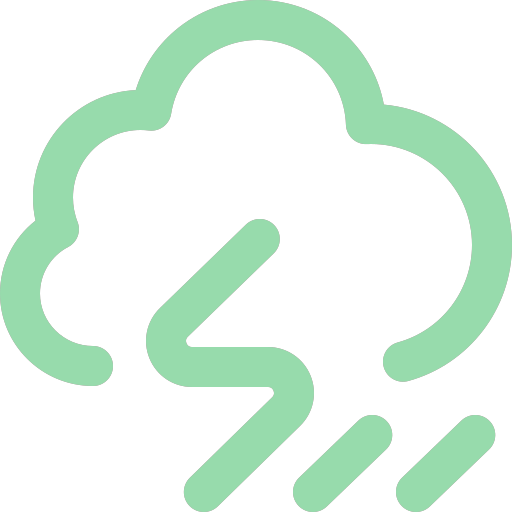
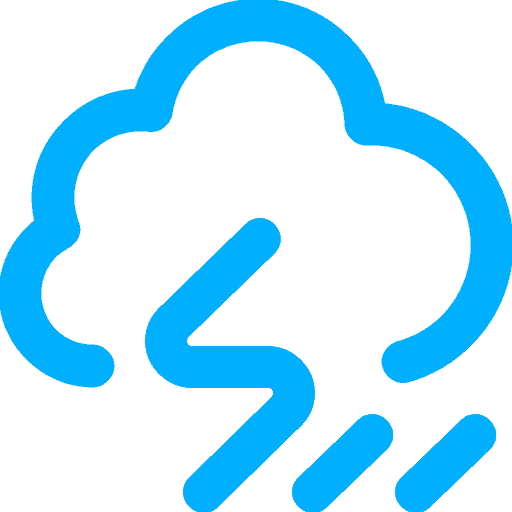
Changing theme

diff --git a/public/css/style.css b/public/css/style.css
@@ -1,5 +1,5 @@
 body {
-    color :#97dbac;
+    color :#8bcdec;
     font-family: Georgia, 'Times New Roman', Times, serif;
     max-width: 700px;
     margin: 0 auto;
@@ -16,8 +16,8 @@ body {
 
 footer {
     font-family: Georgia, 'Times New Roman', Times, serif;
-    color: #c59a81;
-    border-top: 0.1px solid #c59a81;
+    color: #8bcdec;
+    border-top: 0.1px solid #8bcdec;
     margin-top: 16px;
     padding: 16px 0px;
 }
@@ -37,37 +37,37 @@ footer {
       }
 
 header {
-    color :#97dbac;
+    color :#8bcdec;
     margin-top: 90px;
     margin-bottom: 48px;
 }
 
 h1 {
     font-family: Georgia, 'Times New Roman', Times, serif;
-    color :#97dbac;
+    color :#8bcdec;
     font-size: 80px;
     margin-bottom: 16px;
 }
 ::placeholder { /* Chrome, Firefox, Opera, Safari 10.1+ */
-    color: rgb(202, 157, 157);
+    color: rgb(179, 155, 247);
   }
 
 header a {
 
     font-family: Georgia, 'Times New Roman', Times, serif;
-    color :#97dbac;
+    color :#8bcdec;
     margin-right: auto;
     text-decoration: none ;
     border-radius: 10px;
     background-color: transparent;
-    border: 0.01px solid #e0c5a9;
+    border: 0.01px solid#8bcdec;
     position: center;
     padding: 10px 30px;
 
 }
 header a:hover{
-    background-color: #e6d6cd;
-    color: #6d503f ;
+    background-color: #8bcdec;
+    color: #4a60c5 ;
 }
 
 .portrait {
@@ -84,11 +84,11 @@ header a:hover{
 
 input {
     width: 473px;
-    border: 0.5px solid #cccccc;
+    border: 0.5px solid #8bcdec;
     border-radius: 10px;
     padding: 10px 30px;
     background: transparent;
-    color: white;
+    color: #8bcdec;
     margin-right: 6px;
 
 }
@@ -96,29 +96,29 @@ input {
 button {
     cursor: pointer;
     font-family: Arial, Helvetica, sans-serif;
-    border: 0.7px solid #885c43;
-    background:#885c43 ;
-    color:#d6bfb2;
+    border: 0.7px solid #8bcdec;
+    background:#8bcdec ;
+    color:#064764;
     padding: 10px 30px;
     border-radius: 10px;
 
 }
 
 button:hover{
-    background-color: #e6d6cd;
-    color:#6d503f ;
+    background-color: #01415f;
+    color:#8bcdec ;
 
 }
 
 .msgone {
 
-    color: #dda07d;
+    color: #27a3dd;
     font-size: 35px;
     font-family: Georgia, 'Times New Roman', Times, serif;
 
 }
 .msgtwo{
-    color: #d1af9c;
+    color: #8bcdec;
     font-family: Georgia, 'Times New Roman', Times, serif;
     font-size: 25px;
     
